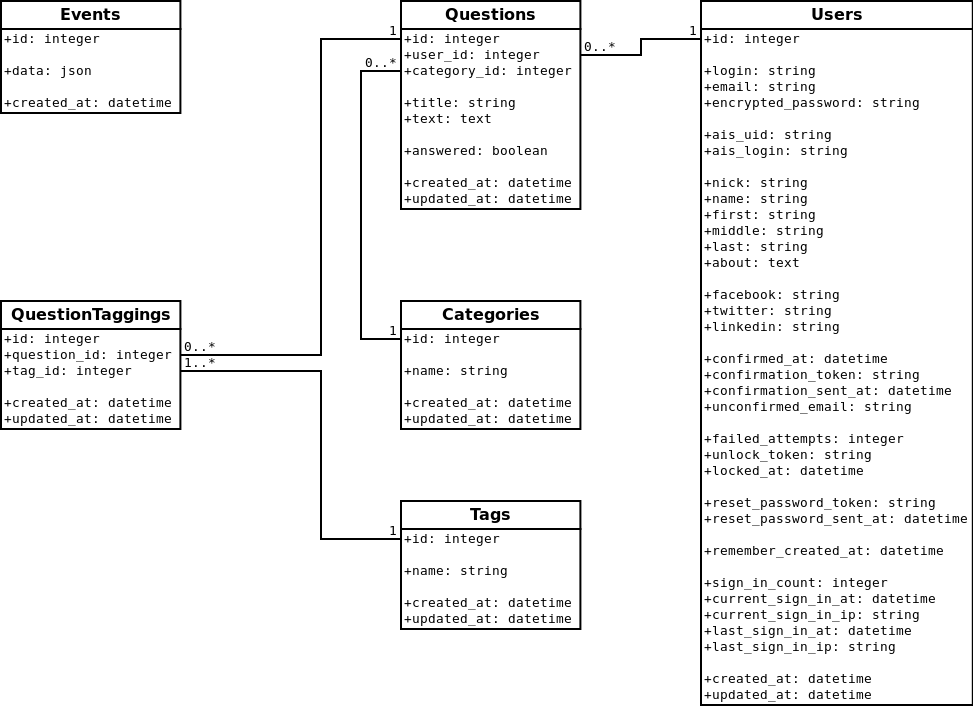
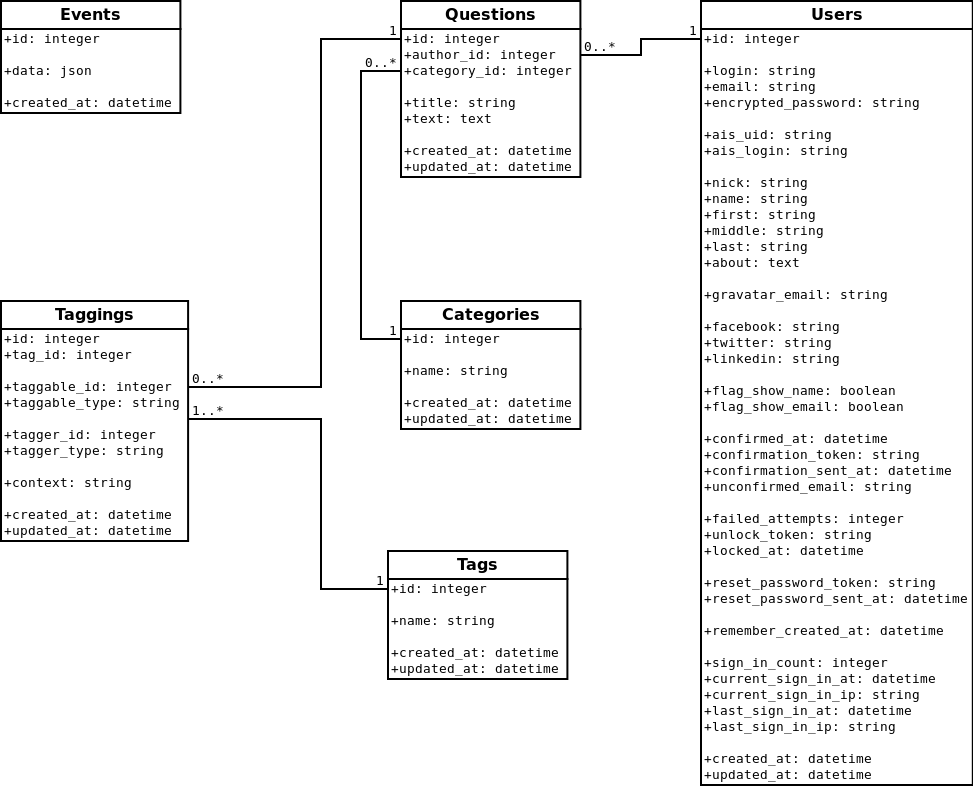
Remove answered flag from Question, update DB schema diagram

diff --git a/db/schema.rb b/db/schema.rb
@@ -11,7 +11,7 @@
 #
 # It's strongly recommended that you check this file into your version control system.
 
-ActiveRecord::Schema.define(version: 20131106113301) do
+ActiveRecord::Schema.define(version: 20131111001542) do
 
   # These are extensions that must be enabled in order to support this database
   enable_extension "plpgsql"
@@ -54,7 +54,6 @@ ActiveRecord::Schema.define(version: 20131106113301) do
     t.integer  "category_id", null: false
     t.string   "title",       null: false
     t.text     "text",        null: false
-    t.boolean  "answered",    null: false
     t.datetime "created_at"
     t.datetime "updated_at"
   end

diff --git a/db/migrate/20131111001542_remove_answered_from_questions.rb b/db/migrate/20131111001542_remove_answered_from_questions.rb
@@ -1,0 +1,5 @@
+class RemoveAnsweredFromQuestions < ActiveRecord::Migration
+  def change
+    remove_column :questions, :answered, :boolean
+  end
+end
